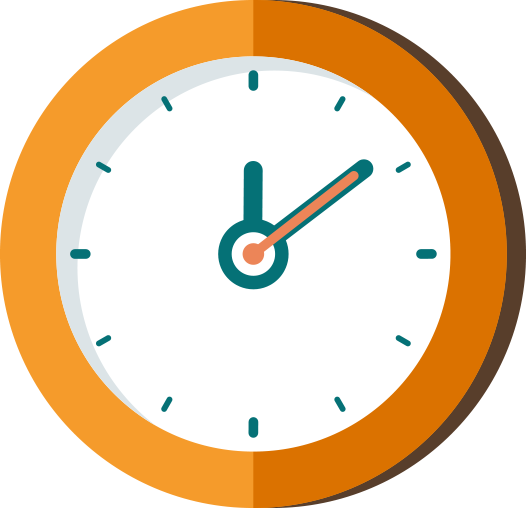
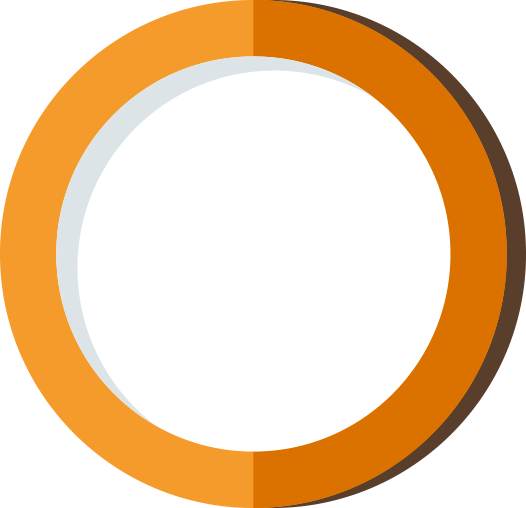
手机H5元素位置修改

diff --git a/static/special/source/zenlx_promotion.html b/static/special/source/zenlx_promotion.html
@@ -89,10 +89,10 @@
 		    	<img src="../images/mobile/dialog2_1.png" class="ani dialog2_1" swiper-animate-effect="bounceInRight" swiper-animate-duration="0.6s" swiper-animate-delay="1.2s">
 	    	</div>
 	    	<div class="slide2-containter2">
-		    	<img src="../images/mobile/tip2_1.png" class="ani tip2_1" swiper-animate-effect="slideRightToLeft" swiper-animate-duration="4s" swiper-animate-delay="2s">
-		    	<img src="../images/mobile/tip2_2.png" class="ani tip2_2" swiper-animate-effect="slideRightToLeft" swiper-animate-duration="4s" swiper-animate-delay="6s">
-		    	<img src="../images/mobile/tip2_3.png" class="ani tip2_3" swiper-animate-effect="slideRightToLeft" swiper-animate-duration="4s" swiper-animate-delay="10s">
-		    	<img src="../images/mobile/tip2_4.png" class="ani tip2_4" swiper-animate-effect="bounceInRight" swiper-animate-duration="2s" swiper-animate-delay="14s">
+		    	<img src="../images/mobile/tip2_1.png" class="ani tip2_3.png" swiper-animate-effect="slideRightToLeft" swiper-animate-duration="2.5s" swiper-animate-delay="2s">
+		    	<img src="../images/mobile/tip2_2.png" class="ani tip2_1" swiper-animate-effect="slideRightToLeft" swiper-animate-duration="2.5s" swiper-animate-delay="4.5s">
+		    	<img src="../images/mobile/tip2_3.png" class="ani tip2_2" swiper-animate-effect="slideRightToLeft" swiper-animate-duration="2.5s" swiper-animate-delay="7s">
+		    	<img src="../images/mobile/tip2_4.png" class="ani tip2_4" swiper-animate-effect="bounceInRight" swiper-animate-duration="1s" swiper-animate-delay="9.5s">
 	    	</div>
 	    	<div class="slide2-containter3">
 		    	<div class="character2_2box">
@@ -124,8 +124,8 @@
 		    	</div>
 		    	<img src="../images/mobile/hat.png" class="ani hat" swiper-animate-effect="fadeIn" swiper-animate-duration="0.3s" swiper-animate-delay="1s">
 		    	<img src="../images/mobile/dialog3_1.png" class="ani dialog3_1" swiper-animate-effect="bounceInDown" swiper-animate-duration="0.3s" swiper-animate-delay="0.9s">
-		    	<img src="../images/mobile/dialog3_3.png" class="ani dialog3_3" swiper-animate-effect="slideTopToCenter" swiper-animate-duration="6s" swiper-animate-delay="1.1s">
-		    	<img src="../images/mobile/dialog3_4.png" class="ani dialog3_3" swiper-animate-effect="bounceInDown" swiper-animate-duration="1s" swiper-animate-delay="7s">
+		    	<img src="../images/mobile/dialog3_3.png" class="ani dialog3_3" swiper-animate-effect="slideTopToCenter" swiper-animate-duration="2s" swiper-animate-delay="1s">
+		    	<img src="../images/mobile/dialog3_4.png" class="ani dialog3_3" swiper-animate-effect="bounceInDown" swiper-animate-duration="1s" swiper-animate-delay="2.5s">
 	    	</div>
 	    	<div class="slide3-containter2">
 		    	<img src="../images/mobile/character3_2.png" class="ani character3_2" swiper-animate-effect="bounceInRight" swiper-animate-duration="0.3s" swiper-animate-delay="0.4s">
@@ -140,23 +140,24 @@
 	    	</div>
 	    </div>
 	    <div class="swiper-slide slide4">
-	    	<div class="slide4-containter1 ani" swiper-animate-effect="slideRightToLeft" swiper-animate-duration="4s" swiper-animate-delay="0.7s">
+	    	<div class="slide4-containter1 ani" swiper-animate-effect="slideRightToLeft" swiper-animate-duration="5s" swiper-animate-delay="0.7s">
 		    	<img src="../images/mobile/dialog4_1.png" class="ani dialog4_1" swiper-animate-effect="bounceInRight" swiperdialog-animate-duration="0.3s" swiper-animate-delay="0.3s">
 	    	</div>
-	    	<div class="slide4-containter2 ani" swiper-animate-effect="slideRightToLeft" swiper-animate-duration="4s" swiper-animate-delay="1s">
+	    	<div class="slide4-containter2 ani" swiper-animate-effect="slideRightToLeft" swiper-animate-duration="5s" swiper-animate-delay="1s">
 		    	<img src="../images/mobile/globe.png" class="ani globe" swiper-animate-effect="bounceInRight" swiper-animate-duration="0.3s" swiper-animate-delay="0.7s">
-		    	<img src="../images/mobile/Spain.png" class="ani spain" swiper-animate-effect="fadeIn" swiper-animate-duration="0.3s" swiper-animate-delay="1.1s">
-		    	<img src="../images/mobile/Portugal.png" class="ani portugal" swiper-animate-effect="fadeIn" swiper-animate-duration="0.3s" swiper-animate-delay="1.4s">
-		    	<img src="../images/mobile/Vietnam.png" class="ani vietnam" swiper-animate-effect="fadeIn" swiper-animate-duration="0.3s" swiper-animate-delay="1.8s">
-		    	<img src="../images/mobile/Chiengmai.png" class="ani chiengmai" swiper-animate-effect="bounceInRight" swiper-animate-duration="0.3s" swiper-animate-delay="2.2s">
-		    	<img src="../images/mobile/line.png" class="ani line" swiper-animate-effect="fadeIn" swiper-animate-duration="0.6s" swiper-animate-delay="2.5s">
+		    	<img src="../images/mobile/Spain.png" class="ani spain" swiper-animate-effect="fadeIn" swiper-animate-duration="0.3s" swiper-animate-delay="1.3s">
+		    	<img src="../images/mobile/Portugal.png" class="ani portugal" swiper-animate-effect="fadeIn" swiper-animate-duration="0.3s" swiper-animate-delay="1.9s">
+		    	<img src="../images/mobile/Vietnam.png" class="ani vietnam" swiper-animate-effect="fadeIn" swiper-animate-duration="0.3s" swiper-animate-delay="2.5s">
+		    	<img src="../images/mobile/Chiengmai.png" class="ani chiengmai" swiper-animate-effect="fadeIn" swiper-animate-duration="0.3s" swiper-animate-delay="3.1s">
+		    	<img src="../images/mobile/line.png" class="ani line" swiper-animate-effect="fadeIn" swiper-animate-duration="0.3s" swiper-animate-delay="3.3s">
 	    	</div>
 	    	<div class="slide4-containter3">
-		    	<img src="../images/mobile/dialog4_2.png" class="ani dialog4_2" swiper-animate-effect="bounceInRight" swiper-animate-duration="0.3s" swiper-animate-delay="5s">
+		    	<img src="../images/mobile/dialog4_2.png" class="ani dialog4_2" swiper-animate-effect="bounceInRight" swiper-animate-duration="0.3s" swiper-animate-delay="6s">
 	    	</div>
 	    	<div class="slide4-containter4">
-		    	<img src="../images/mobile/clock.png" class="ani clock" swiper-animate-effect="bounceInRight" swiper-animate-duration="0.3s" swiper-animate-delay="6s">
-		    	<img src="../images/mobile/clockshadow.png" class="ani clockshadow" swiper-animate-effect="fadeIn" swiper-animate-duration="0.3s" swiper-animate-delay="6s">
+		    	<img src="../images/mobile/clock.png" class="ani clock" swiper-animate-effect="bounceInRight" swiper-animate-duration="0.3s" swiper-animate-delay="7s">
+		    	<img src="../images/mobile/clock_hand.png" class="ani clock_hand" swiper-animate-effect="bounceInRight" swiper-animate-duration="0.3s" swiper-animate-delay="7s">
+		    	<img src="../images/mobile/clockshadow.png" class="ani clockshadow" swiper-animate-effect="fadeIn" swiper-animate-duration="0.5s" swiper-animate-delay="7.5s">
 	    	</div>
 	    	<div class="slide4-containter5">
 		    	<img src="../images/mobile/character4_1.png" class="ani character4_1" swiper-animate-effect="bounceInRight" swiper-animate-duration="0.3s" swiper-animate-delay="0.5s">

diff --git a/static/special/css/zenlx_promotion.css b/static/special/css/zenlx_promotion.css
@@ -729,7 +729,9 @@ from{transform:rotateZ(-60deg);}
 	width:12.425rem;
 	height:15.95rem;
 	position:absolute;
-	left:21.6%;
+	/*left:21.6%;*/
+	left:50%;
+	margin-left:-6.212rem;
 	top:30.584%;
 }
 .globe{
@@ -791,6 +793,30 @@ from{transform:rotateZ(-60deg);}
 	position:absolute;
 	left:0;
 	top:0;
+	z-index:-2;
+}
+.clock_hand{
+	width:9.2rem;
+	height:9.2rem;
+	position:absolute;
+	top:14.8%;
+	left:13.31%;
+}
+@-webkit-keyframes clocktwitle {
+	from{-webkit-transform:rotateZ(0deg);}
+	to{-webkit-transform:rotateZ(360deg)}
+}
+@-o-keyframes clocktwitle {
+	from{-o-transform:rotateZ(0deg)}
+	to{-o-transform:rotateZ(360deg)}
+}
+@-moz-keyframes clocktwitle {
+	from{-moz-transform:rotateZ(0deg)}
+	to{-moz-transform:rotateZ(360deg)}
+}
+@keyframes clocktwitle {
+	from{transform:rotateZ(0deg)}
+	to{transform:rotateZ(360deg)}
 }
 .clockshadow{
 	width:4rem;
@@ -798,7 +824,14 @@ from{transform:rotateZ(-60deg);}
 	position:absolute;
 	left:48.1%;
 	top:11.417%;
+	z-index:-1;
+	/* -webkit-animation: clocktwitle 1s linear 0s infinite;
+	   -moz-animation: clocktwitle 1s linear 0s infinite;
+	    -ms-animation: clocktwitle 1s linear 0s infinite;
+	     -o-animation: clocktwitle 1s linear 0s infinite;
+	        animation: clocktwitle 1s linear 0s infinite; */
 }
+
 .slide4-containter5{
 	width:8.9rem;
 	height:8.9rem;
@@ -833,10 +866,12 @@ from{transform:rotateZ(-60deg);}
 
 .slide-5 .block-1 {
 	position: absolute;
-	left: 12%;
+	/*left: 12%;*/
+	left:50%;
 	width: 17.5rem;
 	height: 11.875rem;
 	top: 14%;
+	margin-left: -8.75rem;
 }
 
 .slide-5 .img-1 {
@@ -855,40 +890,41 @@ from{transform:rotateZ(-60deg);}
 
 .slide-5 .block-2 {
 	position: absolute;
-	left: 4%;
-	width: 16rem;
-	height: 11.375rem;
-	bottom: 8%;
+	right: 4%;
+	width:15.9rem;
+	height:11rem;
+	bottom: 12.3%;
 }
 
 .slide-5 .img-2 {
 	width: 7.3rem;
-	height: 8.925rem;
-	left: 60%;
+	height: 8.75rem;
+	right:14.465%;
+	bottom:0;
 	z-index: 3;
 }
 
 .slide-5 .img-4 {
-	width: 7.675rem;
+	width: 7.7rem;
 	height: 7rem;
-	top: -1.7rem;
-	left: 20%;
+	top:0;
+	left:0;
 	z-index: 2;
 }
 
 .slide-5 .img-5 {
 	width: 3.525rem;
 	height: 3.175rem;
-	top: 5.7rem;
-	left: 42%;
+	bottom:1%;
+	right:52.515%;
 	z-index: 1;
 }
 
 .slide-5 .img-6 {
 	width: 3.6rem;
 	height: 6.15rem;
-	top: 2.7rem;
-	left: 103%;
+	bottom:1%;
+	right:0;
 	z-index: 1;
 }
 
@@ -901,7 +937,9 @@ from{transform:rotateZ(-60deg);}
 	width: 14.75rem;
 	height: 13.75rem;
 	top: 18%;
-	left: 23%;
+	/*left: 23%;*/
+	left: 50%;
+	margin-left: -7.375rem;
 }
 
 .slide-6 .img-1 {
@@ -1087,8 +1125,10 @@ from{transform:rotateZ(-60deg);}
 	position: absolute;
 	width: 14.65rem;
 	height: 2.55rem;
-	left: 20%;
+	/*left: 20%;*/
+	left: 50%;
 	bottom: 15%;
+	margin-left: -7.325rem;
 }
 
 .slide-6 .block-3 .img-12 {
@@ -1121,8 +1161,10 @@ from{transform:rotateZ(-60deg);}
 	position: absolute;
 	width: 16.575rem;
 	height: 26.125rem;
-	left: 18%;
+	/*left: 18%;*/
+	left: 50%;
 	top: 10%;
+	margin-left: -8.2rem;
 }
 
 .slide-7 .img-1 {
